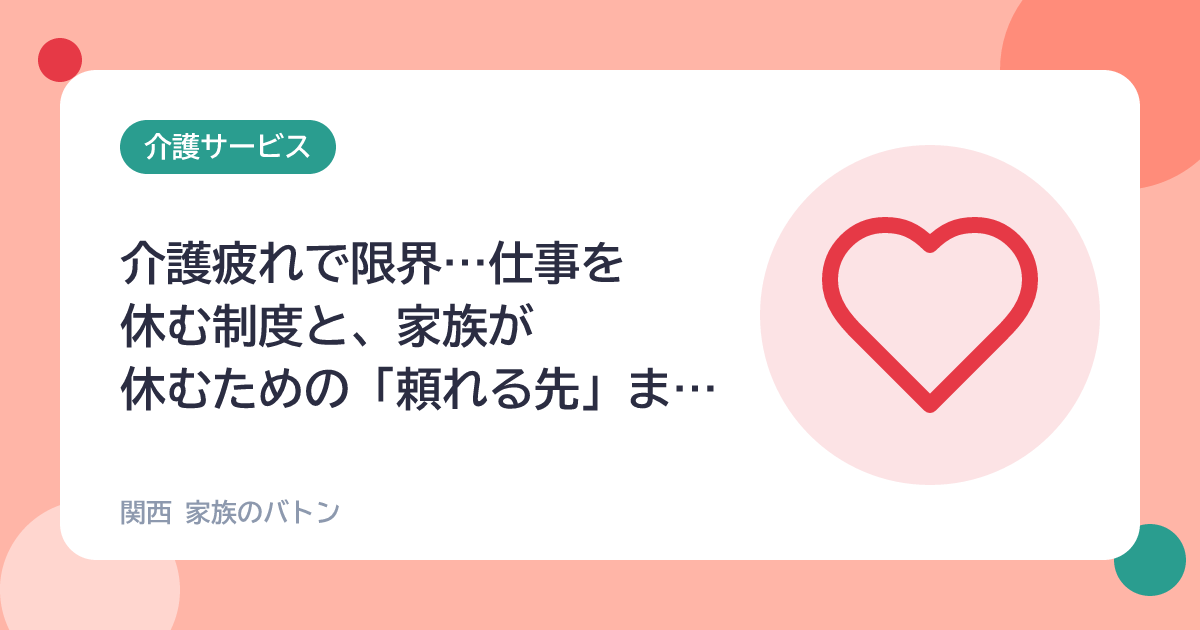
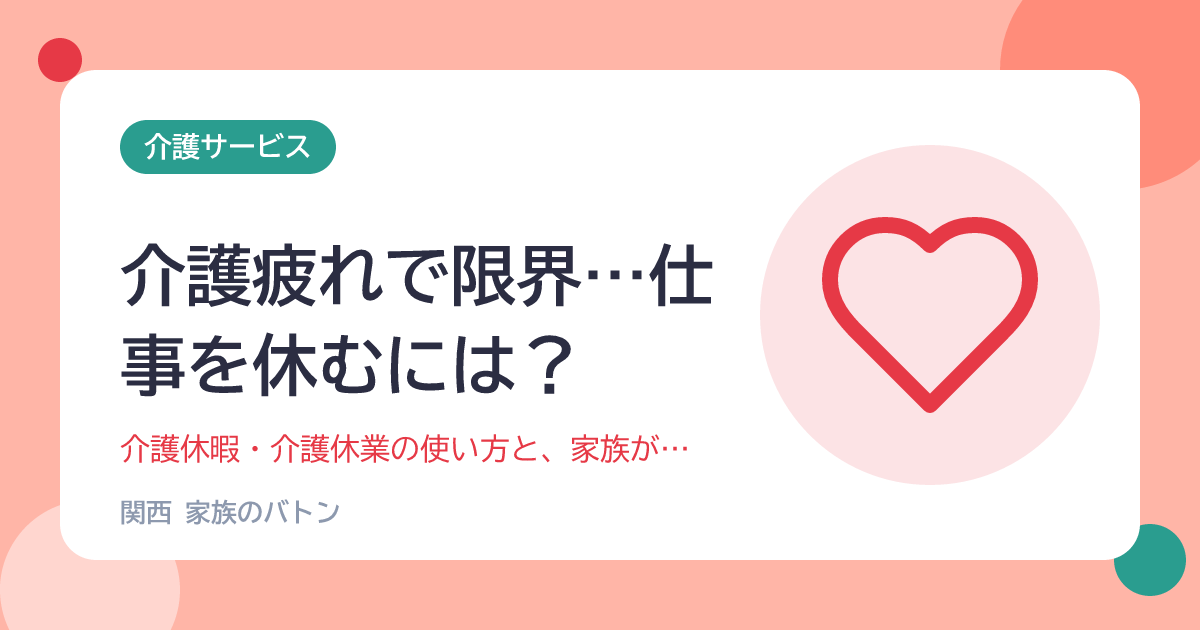
介護疲れの記事：タイトルに「仕事を休むには」、2025年4月からの会社の個別周知・意向確認の義務を追記

Changed region(s): [[0.0925, 0.3619, 0.5858, 0.6635], [0.0925, 0.6937, 0.555, 0.754]]

diff --git a/content/blog/kaigo-tsukare.md b/content/blog/kaigo-tsukare.md
@@ -1,6 +1,7 @@
 ---
-title: "介護疲れで限界…仕事を休む制度と、家族が休むための「頼れる先」まとめ"
+title: "介護疲れで限界…仕事を休むには？介護休暇・介護休業の使い方と、家族が休むための「頼れる先」まとめ"
 date: "2026-09-30"
+updated: "2026-10-26"
 icon: "kaigo"
 categories: ["kaigo-service"]
 description: "親の介護で心も体も限界に近いと感じている方へ。仕事を休むときに使える介護休暇・介護休業と、家族が休むために使えるサービスや相談先を、介護保険のサービスから介護保険外サービスまで分かりやすくまとめました。"
@@ -52,6 +53,8 @@ cta:
 | お給料 | 有給か無給かは、会社の規定による | 雇用保険から「**介護休業給付金**」（休業開始時の賃金日額の67％相当）が支給される |
 
 「今日は少し休みたい」「午前中だけ抜けたい」という疲れには、時間単位でも取れる**介護休暇**が使いやすい制度です。介護休業は、自分が介護をするためではなく、**仕事と介護を両立できる体制を整えるための期間**として使うよう、厚生労働省も案内しています。
+
+2025年4月からは、**介護に直面したことを会社に申し出ると、会社は介護休業などの制度や介護休業給付金について個別に知らせ、使うかどうかの意向を確かめなければならない**ことになっています（厚生労働省「法改正のポイント」）。取得を控えさせるような対応は認められていません。
 
 まずは会社の就業規則を確認し、人事・総務の担当者に相談してみましょう。対象になる家族や申し出の方法など、くわしくは[介護休業と介護休暇のちがい](/blog/kaigo-kyugyo-kyuka)にまとめています。
 
